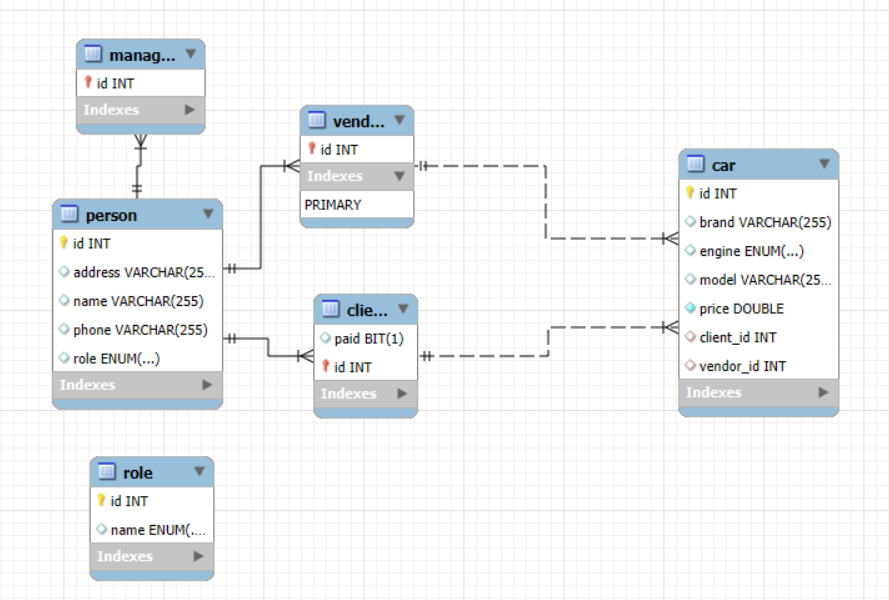
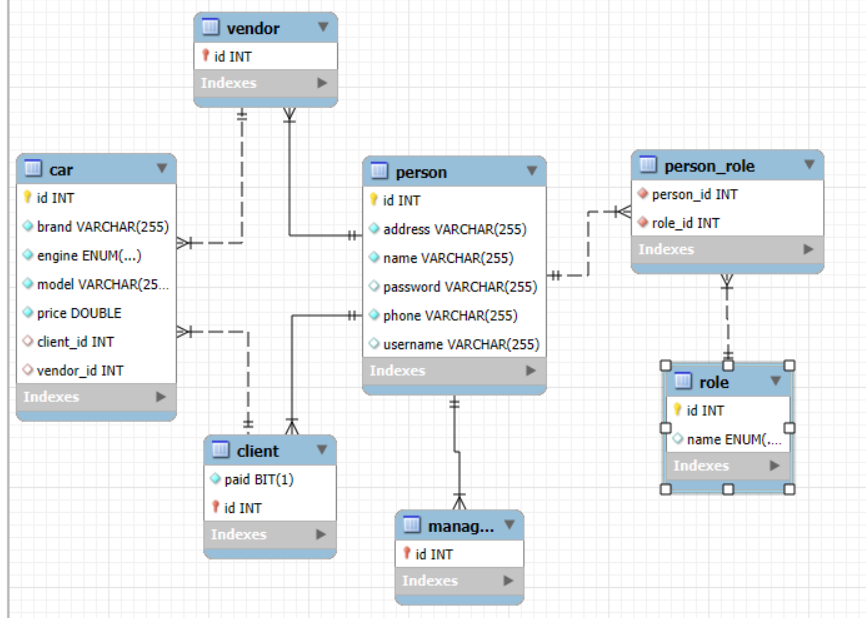
Security init, server working and DB as well

Changed region(s): [[0.0, 0.0, 0.9665, 1.0], [0.4365, 0.78, 0.6236, 0.99], [0.9353, 0.51, 0.9665, 0.54]]

diff --git a/src/main/java/com/example/CarSeller/models/Person.java b/src/main/java/com/example/CarSeller/models/Person.java
@@ -5,6 +5,9 @@ import jakarta.validation.constraints.NotEmpty;
 import jakarta.validation.constraints.NotNull;
 import lombok.*;
 
+import java.util.ArrayList;
+import java.util.Collection;
+
 
 @Entity
 @Inheritance(strategy = InheritanceType.JOINED)
@@ -25,20 +28,19 @@ public abstract class Person {
     @NotNull
     @NotEmpty
     private String phone;
-    @NotNull
-    @Enumerated(EnumType.STRING)
-    private ERoles role;
+    private String username;
+    private String password;
+    @ManyToMany(fetch = FetchType.EAGER)
+    private Collection<Role> role = new ArrayList<>();
 
     public Person() {
     }
 
-    public Person(String name, String address, String phone, ERoles role) {
+    public Person(String name, String address, String phone) {
         this.name = name;
         this.address = address;
         this.phone = phone;
-        this.role = role;
+
     }
 
-    public Person(String name, String address, String phone) {
-    }
 }

diff --git a/src/main/java/com/example/CarSeller/repositories/RoleRepository.java b/src/main/java/com/example/CarSeller/repositories/RoleRepository.java
@@ -1,0 +1,11 @@
+package com.example.CarSeller.repositories;
+
+import com.example.CarSeller.models.ERoles;
+import com.example.CarSeller.models.Role;
+import org.springframework.data.jpa.repository.JpaRepository;
+
+import java.util.Optional;
+
+public interface RoleRepository extends JpaRepository<Role, Long> {
+    Optional<Role> findByName(ERoles name);
+}

diff --git a/src/main/java/com/example/CarSeller/repositories/PersonRepository.java b/src/main/java/com/example/CarSeller/repositories/PersonRepository.java
@@ -3,5 +3,8 @@ package com.example.CarSeller.repositories;
 import com.example.CarSeller.models.Person;
 import org.springframework.data.jpa.repository.JpaRepository;
 
+import java.util.Optional;
+
 public interface PersonRepository extends JpaRepository<Person, Integer> {
+    Optional<Person> findByUsername(String username);
 }

diff --git a/src/main/java/com/example/CarSeller/models/Manager.java b/src/main/java/com/example/CarSeller/models/Manager.java
@@ -13,6 +13,6 @@ import lombok.experimental.SuperBuilder;
 @EqualsAndHashCode(callSuper = true)
 public class Manager extends Person {
     public Manager(String name, String address, String phone) {
-        super(name, address, phone, ERoles.ROLE_MANAGER);
+        super(name, address, phone);
     }
 }

diff --git a/src/main/java/com/example/CarSeller/models/Client.java b/src/main/java/com/example/CarSeller/models/Client.java
@@ -20,7 +20,7 @@ public class Client extends Person {
     private Boolean paid;
 
     public Client(String name, String address, String phone, Boolean paid) {
-        super(name, address, phone, ERoles.ROLE_CLIENT);
+        super(name, address, phone);
         this.paid = paid;
     }
 }

diff --git a/src/main/java/com/example/CarSeller/models/Vendor.java b/src/main/java/com/example/CarSeller/models/Vendor.java
@@ -22,7 +22,7 @@ public class Vendor extends Person{
     @JsonIgnore
     private List<Car> cars;
     public Vendor(String name, String address, String phone, boolean dealClosed) {
-        super(name, address, phone, ERoles.ROLE_VENDOR);
+        super(name, address, phone);
 
     }
 }
